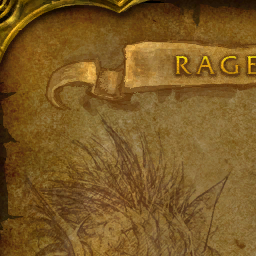
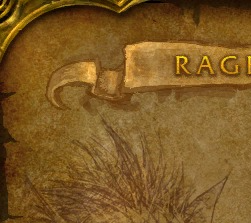
Map display fixed
Cropped out transparent pieces of map tiles. Next I need to work on displaying mobs correctly on the map.

diff --git a/src/components/Map/Map.jsx b/src/components/Map/Map.jsx
@@ -1,65 +1,37 @@
-import { CRS, LatLngBounds } from "leaflet";
+import { CRS } from "leaflet";
 import { MapContainer, TileLayer } from "react-leaflet";
-import { mapBounds, mapCenter } from "../../util/map.js";
+import { mapBounds, mapCenter, tileSize } from "../../util/map.js";
 import "leaflet/dist/leaflet.css";
 import "../Leaflet/SmoothWheelZoom.js";
 import Mobs from "./Mobs/Mobs.jsx";
-
-// export default function Map() {
-//   return (
-//     <MapContainer
-//       className="w-full h-full z-0"
-//       crs={CRS.Simple}
-//       center={mapCenter}
-//       minZoom={0}
-//       maxZoom={1}
-//       zoom={0.5}
-//       zoomSnap={0}
-//       keyboard={false}
-//       doubleClickZoom={false}
-//       attributionControl={false}
-//       zoomControl={false}
-//       scrollWheelZoom={false}
-//       boxZoom={false}
-//       smoothWheelZoom={true}
-//     >
-//       <TileLayer
-//         url="/Maps/RagefireChasm/{x}_{y}.png"
-//         bounds={mapBounds}
-//         tileSize={256}
-//         minNativeZoom={0}
-//         maxNativeZoom={0}
-//         noWrap
-//       />
-//       <Mobs />
-//     </MapContainer>
-//   );
-// }
-
-function CustomTileLayer() {
-  const map = useMap();
-  const tileSize = 256;
-  const southWest = map.unproject([0, tileSize], 0);
-  const northEast = map.unproject([tileSize, 0], 0);
-
-  return (
-    <TileLayer
-      url="/Maps/RagefireChasm/{x}_{y}.png"
-      tileSize={tileSize}
-      noWrap={true}
-      bounds={LatLngBounds(southWest, northEast)}
-    />
-  );
-}
 
 export default function Map() {
   return (
     <MapContainer
       className="w-full h-full z-0"
       crs={CRS.Simple}
-      center={[0, 0]}
+      center={mapCenter}
+      minZoom={0}
+      maxZoom={1}
+      zoom={0}
+      zoomSnap={0}
+      keyboard={false}
+      doubleClickZoom={false}
+      attributionControl={false}
+      zoomControl={false}
+      scrollWheelZoom={false}
+      boxZoom={false}
+      smoothWheelZoom={true}
     >
-      <CustomTileLayer />
+      <TileLayer
+        url="/Maps/RagefireChasm/{x}_{y}.png"
+        bounds={mapBounds}
+        tileSize={tileSize}
+        minNativeZoom={0}
+        maxNativeZoom={0}
+        noWrap
+      />
+      <Mobs />
     </MapContainer>
   );
 }

diff --git a/src/util/map.js b/src/util/map.js
@@ -1,8 +1,10 @@
-const mapHeight = 768;
-const mapWidth = 1024;
-const maxCoords = [-mapHeight, mapWidth];
-// const yOffset = 51;
+import { point } from "leaflet";
 
-// export const mapCenter = [maxCoords[0] / 2 + yOffset, maxCoords[1] / 2];
+export const tileSize = point(250, 223);
+
+const mapHeight = tileSize.y * 3;
+const mapWidth = tileSize.x * 4;
+const maxCoords = [-mapHeight, mapWidth];
+
 export const mapCenter = [maxCoords[0] / 2, maxCoords[1] / 2];
 export const mapBounds = [[0, 0], maxCoords];
